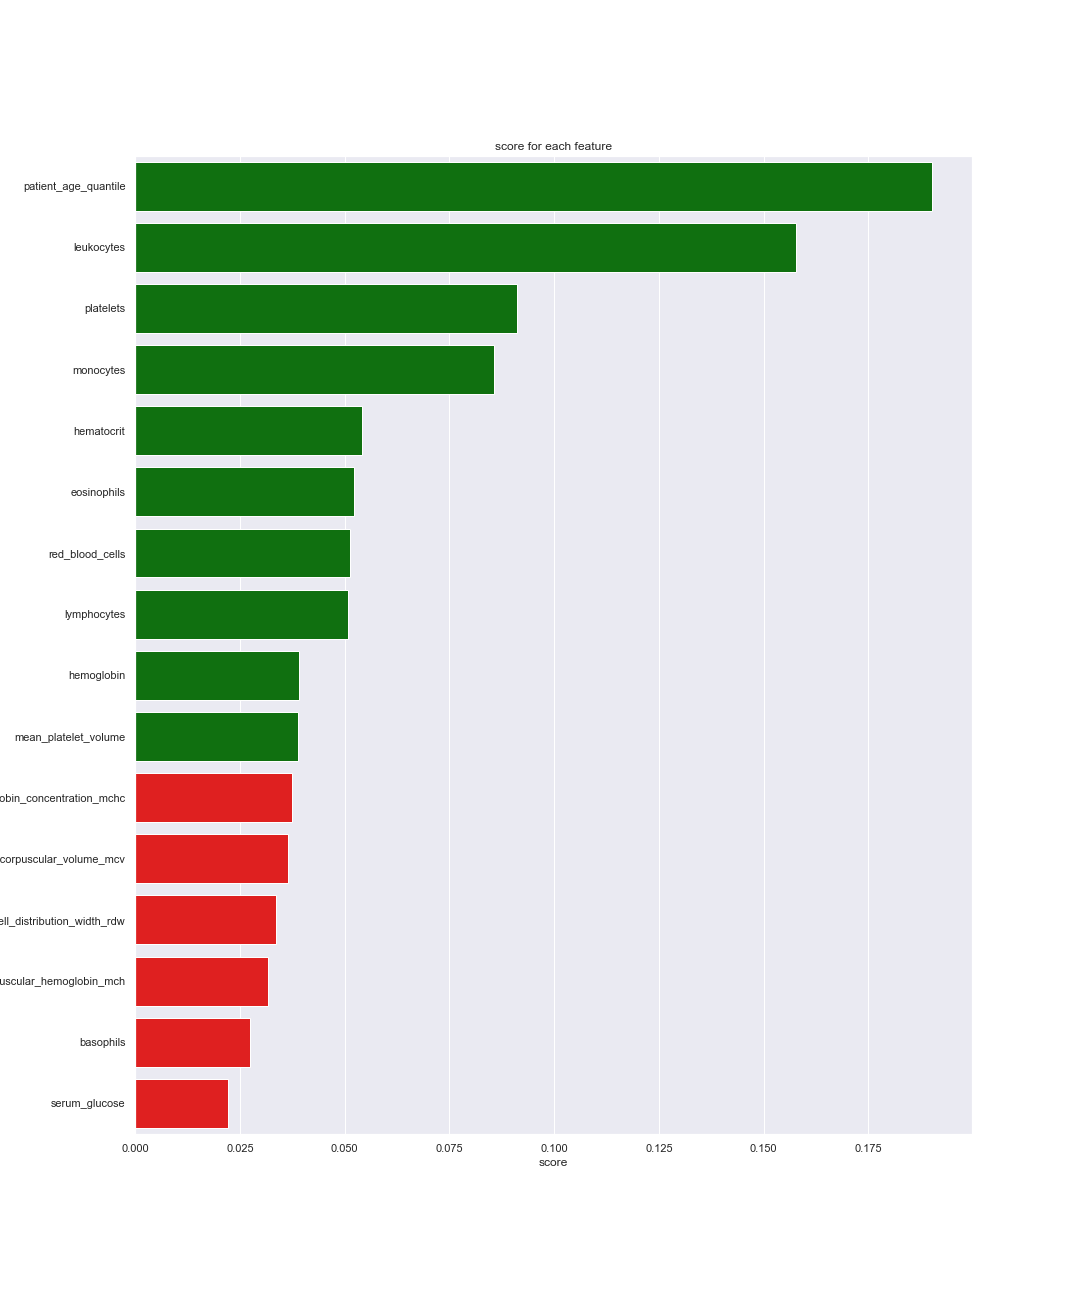
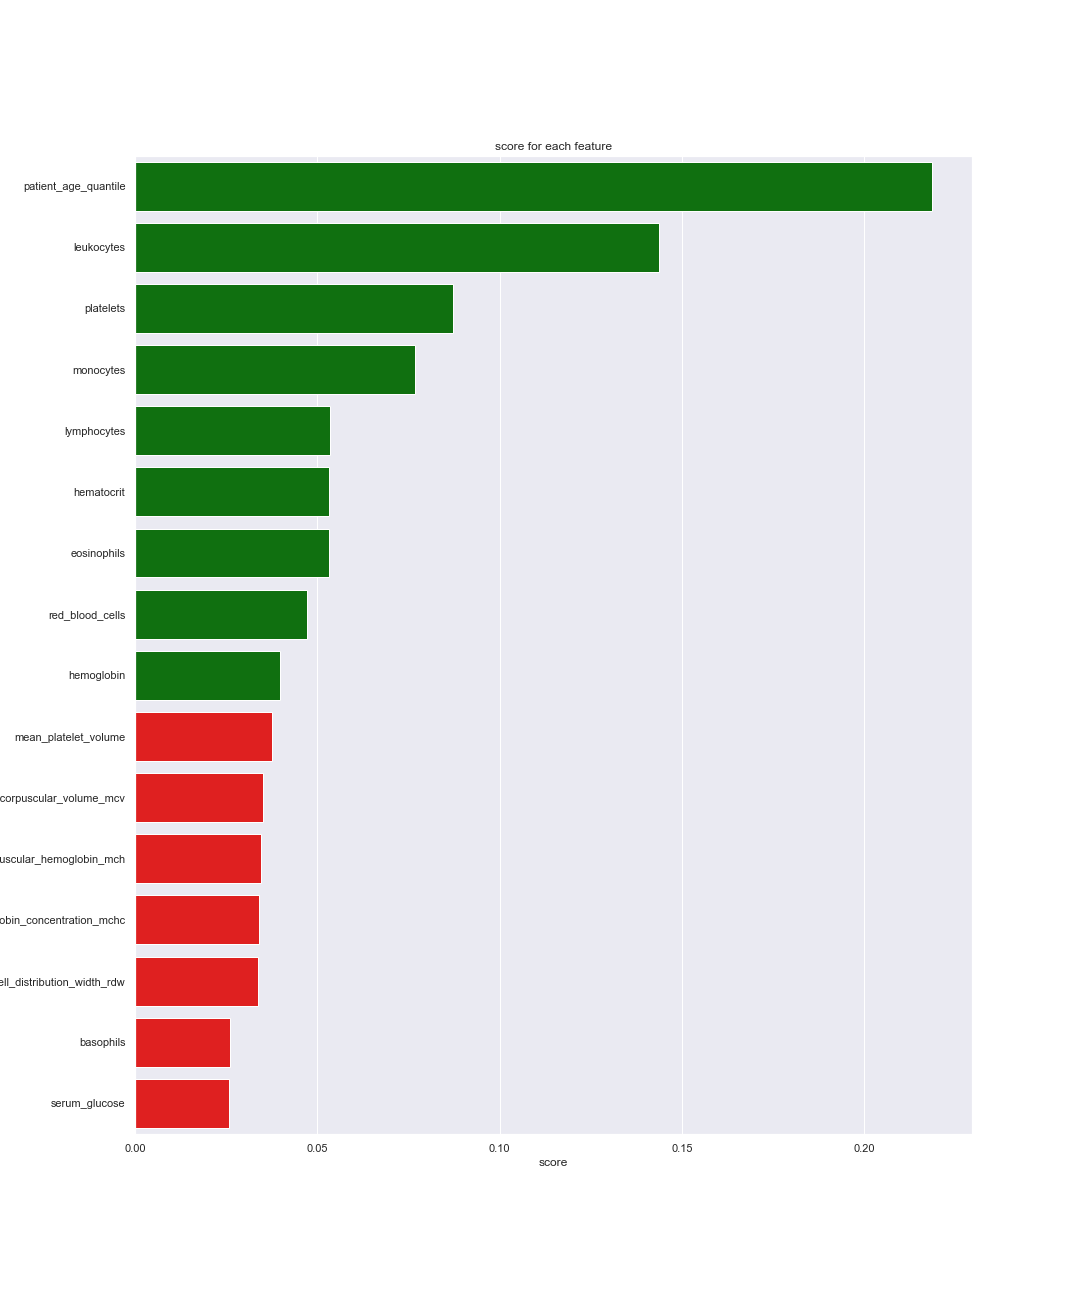
update cm and images based on new unscaled X model

diff --git a/Deployment-flask/templates/RFC.html b/Deployment-flask/templates/RFC.html
@@ -164,13 +164,13 @@
                           <tbody>
                             <tr>
                               <th scope="row" class="align-middle">Predict Positive</th>
-                              <td><h4>1017</h4></td>
+                              <td><h4>1276</h4></td>
                               <td><h4>4</h4></td>
                             </tr>
                             <tr>
                               <th scope="row" class="align-middle">Predict Negative</th>
-                              <td><h4>101</h4></td>
-                              <td><h4>7</h4></td>
+                              <td><h4>123</h4></td>
+                              <td><h4>8</h4></td>
                             </tr>
                           </tbody>
                         </table>

diff --git a/Deployment-flask/app.py b/Deployment-flask/app.py
@@ -82,10 +82,10 @@ def LR():
 @app.route('/RFC')
 def RFC():
     cm_dict = {
-        'tn' : 1017,
+        'tn' : 1276,
         'fp' : 4,
-        'fn' : 101,
-        'tp' : 7
+        'fn' : 123,
+        'tp' : 8
     }
    
     accuracy_score = 0.907
